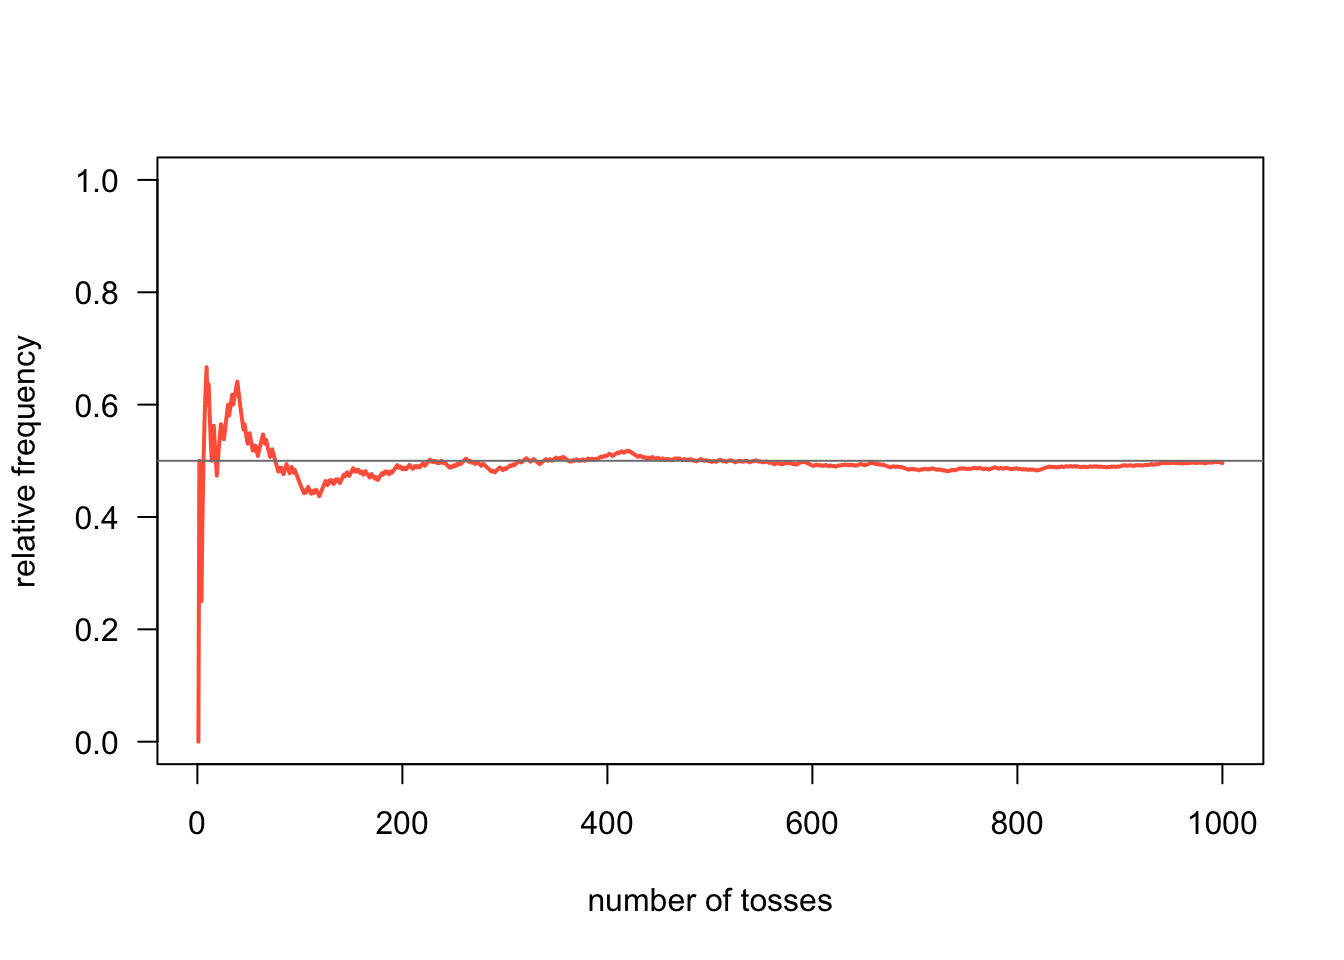
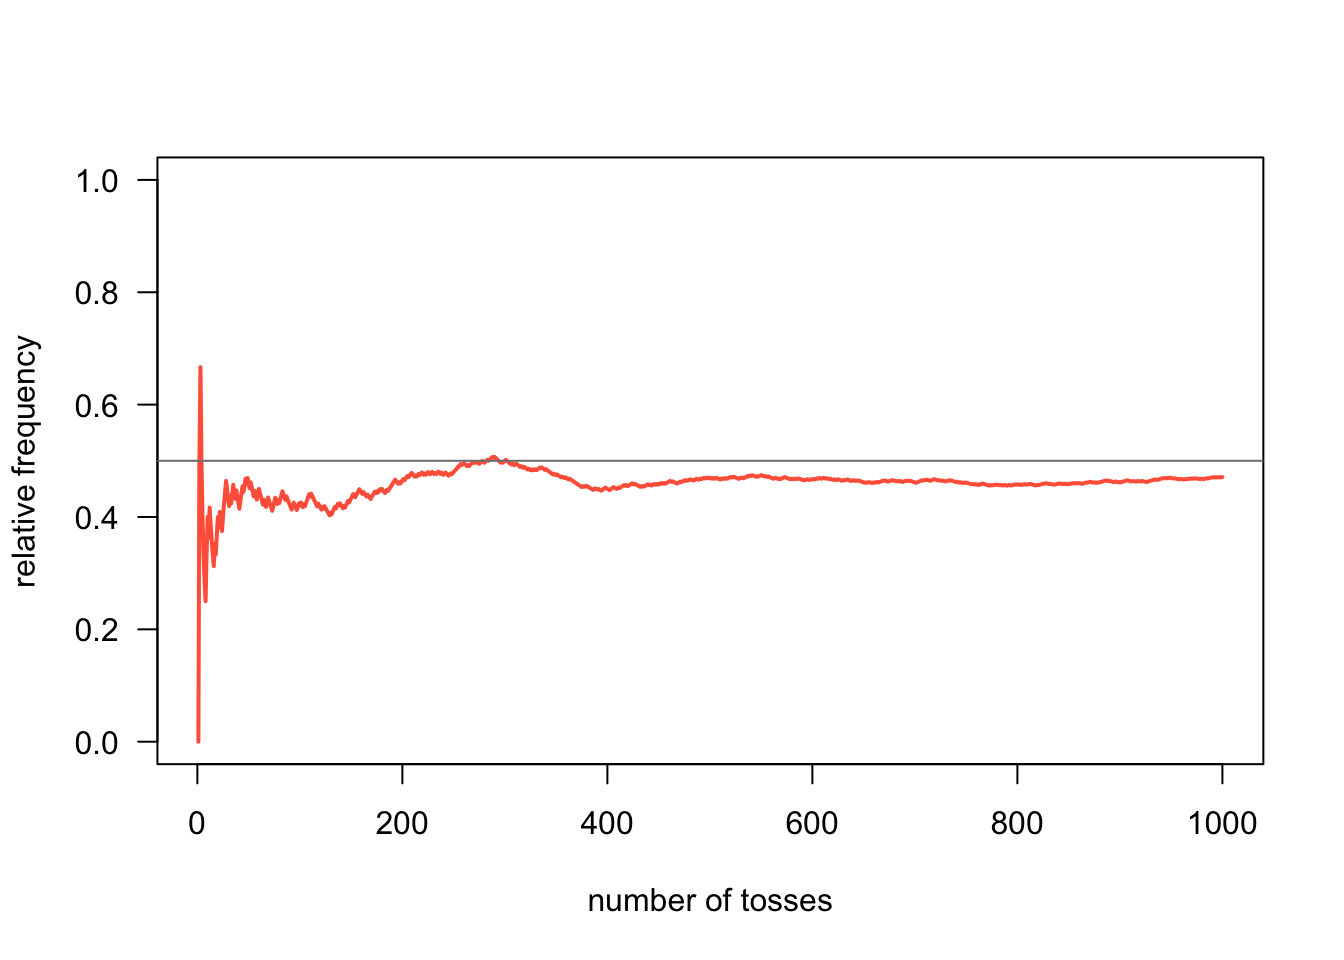
minor update to i306 study guide

Changed region(s): [[0.125, 0.375, 0.9062, 0.625]]

diff --git a/stats/studyGuide/week04.html b/stats/studyGuide/week04.html
@@ -251,7 +251,10 @@ pre > code.sourceCode > span > a:first-child::before { text-decoration: underlin
     <h2 id="toc-title">Table of contents</h2>
    
   <ul>
-  <li><a href="#recap-week-03" id="toc-recap-week-03" class="nav-link active" data-scroll-target="#recap-week-03"><span class="header-section-number">4.1</span> Recap Week 03</a></li>
+  <li><a href="#recap-week-03" id="toc-recap-week-03" class="nav-link active" data-scroll-target="#recap-week-03"><span class="header-section-number">4.1</span> Recap Week 03</a>
+  <ul class="collapse">
+  <li><a href="#name-value-pairs" id="toc-name-value-pairs" class="nav-link" data-scroll-target="#name-value-pairs"><span class="header-section-number">4.1.1</span> Name value pairs</a></li>
+  </ul></li>
   <li><a href="#bayesian-approach" id="toc-bayesian-approach" class="nav-link" data-scroll-target="#bayesian-approach"><span class="header-section-number">4.2</span> Bayesian approach</a></li>
   <li><a href="#frequentist-approach" id="toc-frequentist-approach" class="nav-link" data-scroll-target="#frequentist-approach"><span class="header-section-number">4.3</span> Frequentist approach</a></li>
   <li><a href="#the-law-of-large-numbers" id="toc-the-law-of-large-numbers" class="nav-link" data-scroll-target="#the-law-of-large-numbers"><span class="header-section-number">4.4</span> The law of large numbers</a></li>
@@ -300,8 +303,8 @@ pre > code.sourceCode > span > a:first-child::before { text-decoration: underlin
 
 <section id="recap-week-03" class="level2" data-number="4.1">
 <h2 data-number="4.1" class="anchored" data-anchor-id="recap-week-03"><span class="header-section-number">4.1</span> Recap Week 03</h2>
-<p>We did some exercises, for which there are now solutions in the file <code>week03exercises.qmd</code> and <code>week03exercises.html</code>. You should examine and compare these two files.</p>
-<p>For each student, we calculated the number of exercises successfully completed. Following is a stem and leaf diagram, as well as summary statistics.</p>
+<p>We did some exercises, for which there are now solutions in the file <code>week03exercises-soln.qmd</code> and <code>week03exercises-soln.html</code>. You should examine and compare these two files.</p>
+<p>Last semester, for each student, we calculated the number of exercises successfully completed. Following is a stem and leaf diagram, as well as summary statistics.</p>
 <div class="cell">
 <div class="sourceCode cell-code" id="cb1"><pre class="sourceCode r code-with-copy"><code class="sourceCode r"><span id="cb1-1"><a href="#cb1-1" aria-hidden="true" tabindex="-1"></a>x<span class="ot">&lt;-</span><span class="fu">scan</span>(<span class="st">"week03exercisesList.txt"</span>)</span>
 <span id="cb1-2"><a href="#cb1-2" aria-hidden="true" tabindex="-1"></a><span class="fu">stem</span>(x)</span></code><button title="Copy to Clipboard" class="code-copy-button"><i class="bi"></i></button></pre></div>
@@ -351,7 +354,12 @@ pre > code.sourceCode > span > a:first-child::before { text-decoration: underlin
   10 | 0</code></pre>
 </div>
 </div>
-<p>We also talked about milestone 1, for which there are some hints in <code>week03.qmd</code>.</p>
+<p>We also talked about milestone 1, for which there are some hints in the previous chapter.</p>
+<section id="name-value-pairs" class="level3" data-number="4.1.1">
+<h3 data-number="4.1.1" class="anchored" data-anchor-id="name-value-pairs"><span class="header-section-number">4.1.1</span> Name value pairs</h3>
+<p>It came to my attention that not everyone knows what a name value pair is or how to read it. The name is always on the left and the value is always on the right. Usually there is an equal sign in between, but it doesn’t mean <em>equals</em>. Instead it means <em>gets</em>. So, for example, in ggplot, there are <em>aesthetics</em> <code>x</code> and <code>y</code>. You can say something like <code>x=bill_depth_mm</code> and <code>y=bill_length_mm</code>. You would read the first one as “x gets bill depth in millimeters”. It would make no sense to say the reverse. Don’t ever say <code>bill_depth_mm=x</code>. Instead, let <code>x</code> and <code>y</code> be the names that ggplot knows about, the x-axis and the y-axis, and <code>bill_depth_mm</code> and <code>bill_length_mm</code> be the values that we plug into <code>x</code> and <code>y</code>.</p>
+<p>Similarly, I found out that not everyone knows what we mean by <em>local</em> and <em>remote</em>. The local machine is your laptop. It is the machine close to you. The remote machine is the machine that hosts RStudio Server, the machine you connect to when you access the URL for RStudio. When you work in RStudio on the RStudio server, your work gets saved to the remote machine. Then you have to download it to your local machine and upload it to the machine that hosts Canvas. There is no direct path between the two remote machines that host RStudio Server and Canvas.</p>
+</section>
 </section>
 <section id="bayesian-approach" class="level2" data-number="4.2">
 <h2 data-number="4.2" class="anchored" data-anchor-id="bayesian-approach"><span class="header-section-number">4.2</span> Bayesian approach</h2>
@@ -379,7 +387,7 @@ pre > code.sourceCode > span > a:first-child::before { text-decoration: underlin
 <div class="cell-output cell-output-stdout">
 <pre><code>flips
 heads tails 
-  496   504 </code></pre>
+  471   529 </code></pre>
 </div>
 <div class="sourceCode cell-code" id="cb12"><pre class="sourceCode r code-with-copy"><code class="sourceCode r"><span id="cb12-1"><a href="#cb12-1" aria-hidden="true" tabindex="-1"></a>heads_freq <span class="ot">&lt;-</span> <span class="fu">cumsum</span>(flips <span class="sc">==</span> <span class="st">'heads'</span>) <span class="sc">/</span> <span class="dv">1</span><span class="sc">:</span>num_flips</span>
 <span id="cb12-2"><a href="#cb12-2" aria-hidden="true" tabindex="-1"></a><span class="fu">plot</span>(heads_freq,      <span class="co"># vector</span></span>

diff --git a/stats/studyGuide/week11.html b/stats/studyGuide/week11.html
@@ -403,11 +403,11 @@ div.csl-indent {
 <span id="cb1-2"><a href="#cb1-2" aria-hidden="true" tabindex="-1"></a><span class="fu">library</span>(nycflights13)</span>
 <span id="cb1-3"><a href="#cb1-3" aria-hidden="true" tabindex="-1"></a><span class="fu">today</span>()</span></code><button title="Copy to Clipboard" class="code-copy-button"><i class="bi"></i></button></pre></div>
 <div class="cell-output cell-output-stdout">
-<pre><code>[1] "2023-09-06"</code></pre>
+<pre><code>[1] "2023-09-10"</code></pre>
 </div>
 <div class="sourceCode cell-code" id="cb3"><pre class="sourceCode r code-with-copy"><code class="sourceCode r"><span id="cb3-1"><a href="#cb3-1" aria-hidden="true" tabindex="-1"></a><span class="fu">now</span>()</span></code><button title="Copy to Clipboard" class="code-copy-button"><i class="bi"></i></button></pre></div>
 <div class="cell-output cell-output-stdout">
-<pre><code>[1] "2023-09-06 20:46:37 CDT"</code></pre>
+<pre><code>[1] "2023-09-10 13:38:54 CDT"</code></pre>
 </div>
 </div>
 <p>Suppose you have a comma-separated-values (csv) file containing ISO-formatted dates or date-times. It’s automatically recognized.</p>
@@ -584,14 +584,14 @@ div.csl-indent {
 <span id="cb30-2"><a href="#cb30-2" aria-hidden="true" tabindex="-1"></a>h_age <span class="ot">&lt;-</span> <span class="fu">today</span>() <span class="sc">-</span> <span class="fu">ymd</span>(<span class="st">"1979-10-14"</span>)</span>
 <span id="cb30-3"><a href="#cb30-3" aria-hidden="true" tabindex="-1"></a>h_age</span></code><button title="Copy to Clipboard" class="code-copy-button"><i class="bi"></i></button></pre></div>
 <div class="cell-output cell-output-stdout">
-<pre><code>Time difference of 16033 days</code></pre>
+<pre><code>Time difference of 16037 days</code></pre>
 </div>
 </div>
 <p>The <code>lubridate</code> package provides a construct called <em>duration</em>.</p>
 <div class="cell">
 <div class="sourceCode cell-code" id="cb32"><pre class="sourceCode r code-with-copy"><code class="sourceCode r"><span id="cb32-1"><a href="#cb32-1" aria-hidden="true" tabindex="-1"></a><span class="fu">as.duration</span>(h_age)</span></code><button title="Copy to Clipboard" class="code-copy-button"><i class="bi"></i></button></pre></div>
 <div class="cell-output cell-output-stdout">
-<pre><code>[1] "1385251200s (~43.9 years)"</code></pre>
+<pre><code>[1] "1385596800s (~43.91 years)"</code></pre>
 </div>
 </div>
 <p>There are numerous duration constructors.</p>

diff --git a/stats/studyGuide/week01.html b/stats/studyGuide/week01.html
@@ -310,7 +310,7 @@ pre > code.sourceCode > span > a:first-child::before { text-decoration: underlin
 <div class="sourceCode cell-code" id="cb5"><pre class="sourceCode r code-with-copy"><code class="sourceCode r"><span id="cb5-1"><a href="#cb5-1" aria-hidden="true" tabindex="-1"></a><span class="fu">library</span>(tidyverse)</span></code><button title="Copy to Clipboard" class="code-copy-button"><i class="bi"></i></button></pre></div>
 <div class="cell-output cell-output-stderr">
 <pre><code>── Attaching core tidyverse packages ──────────────────────── tidyverse 2.0.0 ──
-✔ dplyr     1.1.2     ✔ readr     2.1.4
+✔ dplyr     1.1.3     ✔ readr     2.1.4
 ✔ forcats   1.0.0     ✔ stringr   1.5.0
 ✔ ggplot2   3.4.3     ✔ tibble    3.2.1
 ✔ lubridate 1.9.2     ✔ tidyr     1.3.0

diff --git a/stats/studyGuide/week13.html b/stats/studyGuide/week13.html
@@ -371,7 +371,7 @@ pre > code.sourceCode > span > a:first-child::before { text-decoration: underlin
 <span id="cb1-2"><a href="#cb1-2" aria-hidden="true" tabindex="-1"></a><span class="fu">library</span>(tidyverse)</span></code><button title="Copy to Clipboard" class="code-copy-button"><i class="bi"></i></button></pre></div>
 <div class="cell-output cell-output-stderr">
 <pre><code>── Attaching core tidyverse packages ──────────────────────── tidyverse 2.0.0 ──
-✔ dplyr     1.1.2     ✔ readr     2.1.4
+✔ dplyr     1.1.3     ✔ readr     2.1.4
 ✔ forcats   1.0.0     ✔ stringr   1.5.0
 ✔ ggplot2   3.4.3     ✔ tibble    3.2.1
 ✔ lubridate 1.9.2     ✔ tidyr     1.3.0

diff --git a/stats/studyGuide/week02.html b/stats/studyGuide/week02.html
@@ -1021,8 +1021,8 @@ loan_purpose             A  B  C  D  E  F  G Sum
         style_positive = style_positive, style_negative = style_negative, 
         scale_cut = scale_cut, trim = trim, ...)
 }
-&lt;bytecode: 0x7fce20fbf768&gt;
-&lt;environment: 0x7fce038d7510&gt;</code></pre>
+&lt;bytecode: 0x7fd75709dee8&gt;
+&lt;environment: 0x7fd756a343f8&gt;</code></pre>
 </div>
 <div class="sourceCode cell-code" id="cb68"><pre class="sourceCode r code-with-copy"><code class="sourceCode r"><span id="cb68-1"><a href="#cb68-1" aria-hidden="true" tabindex="-1"></a><span class="co">#. same info with commas in numbers</span></span>
 <span id="cb68-2"><a href="#cb68-2" aria-hidden="true" tabindex="-1"></a>loan50 <span class="sc">|&gt;</span></span>

diff --git a/stats/studyGuide/index.html b/stats/studyGuide/index.html
@@ -7,7 +7,7 @@
 <meta name="viewport" content="width=device-width, initial-scale=1.0, user-scalable=yes">
 
 <meta name="author" content="Mick McQuaid">
-<meta name="dcterms.date" content="2023-09-06">
+<meta name="dcterms.date" content="2023-09-10">
 
 <title>Study Guide: Statistics for Informatics</title>
 <style>
@@ -266,7 +266,7 @@ div.csl-indent {
     <div>
     <div class="quarto-title-meta-heading">Published</div>
     <div class="quarto-title-meta-contents">
-      <p class="date">September 6, 2023</p>
+      <p class="date">September 10, 2023</p>
     </div>
   </div>
   
